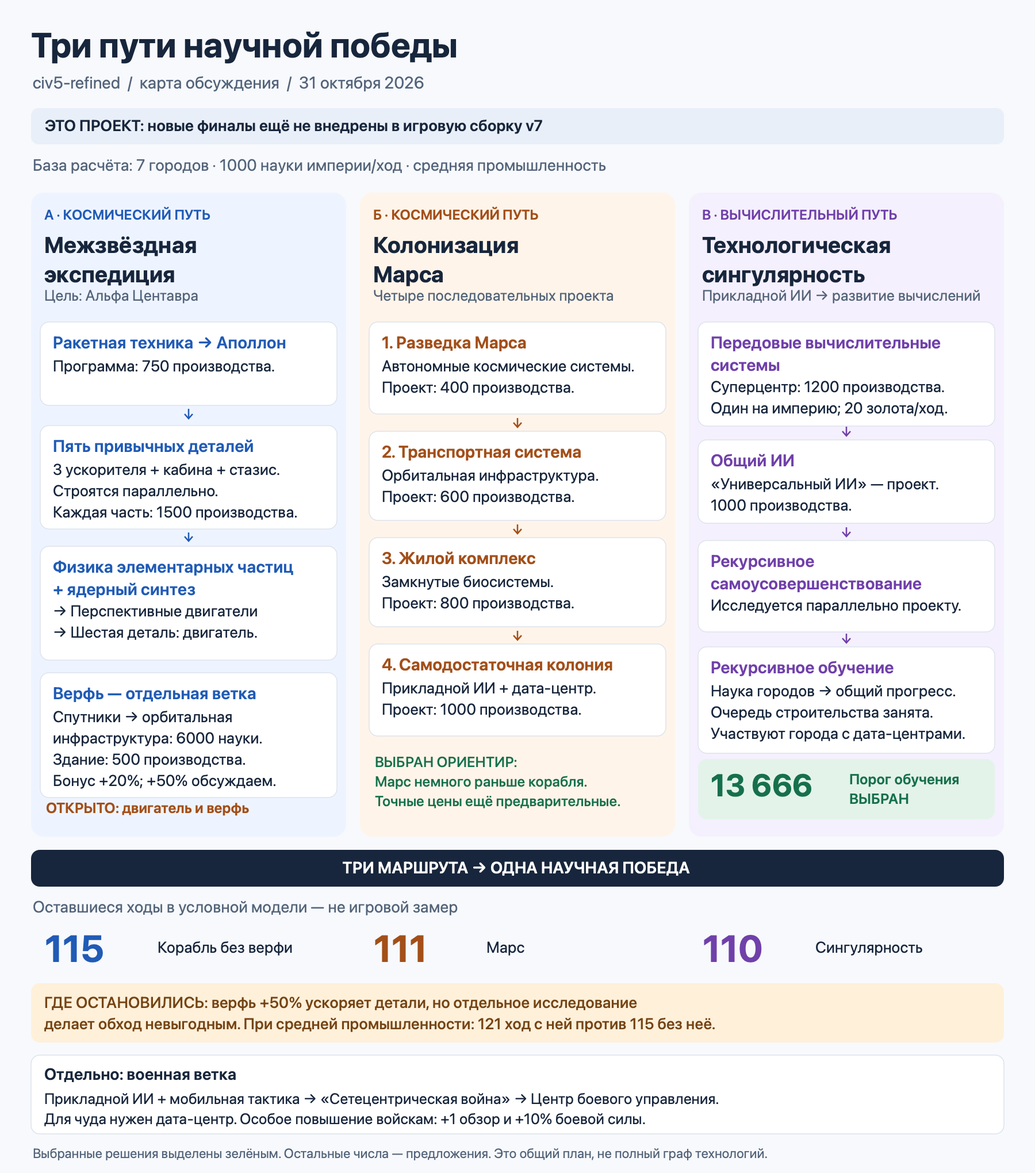
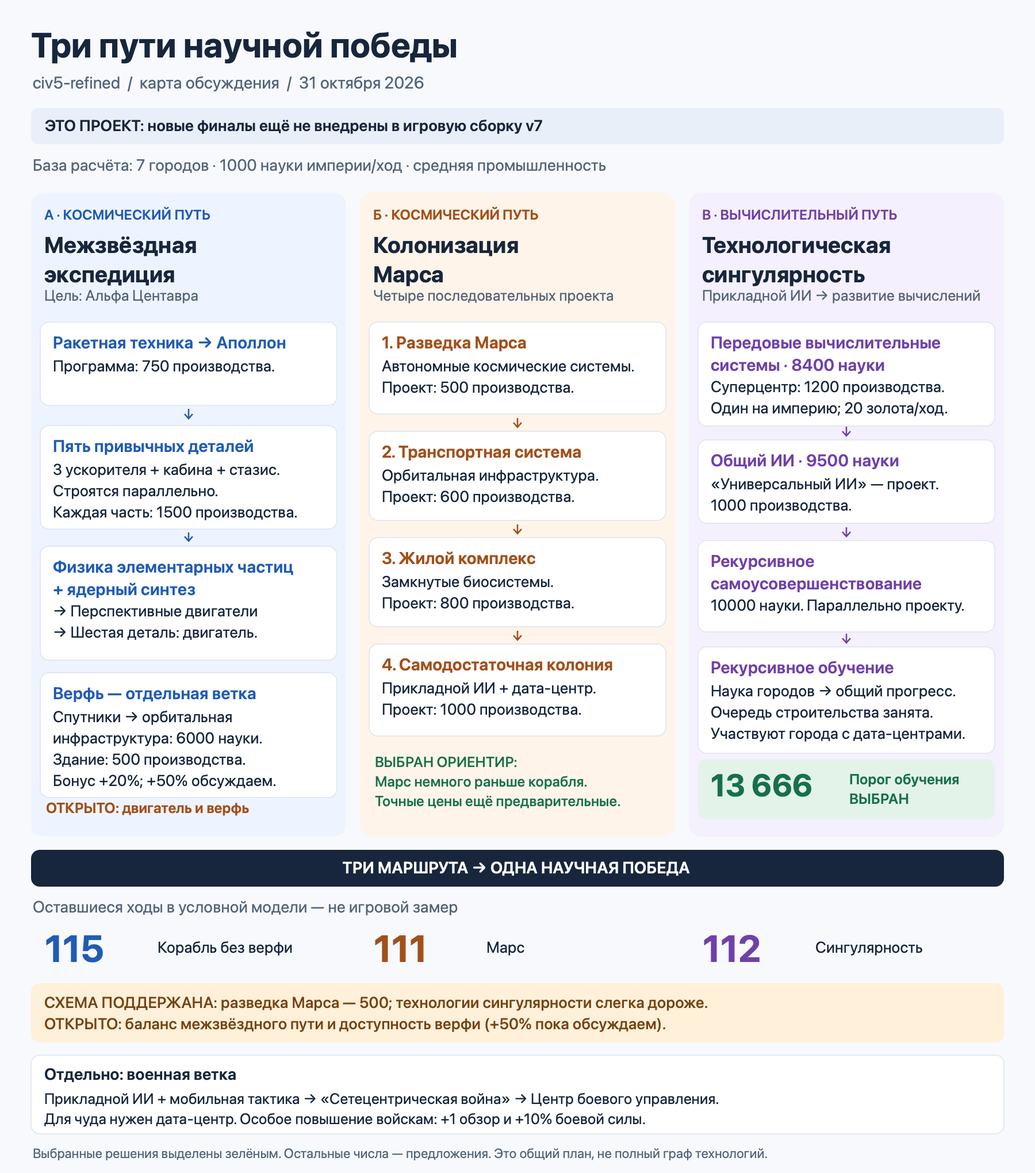
docs: refine Mars reconnaissance and singularity research costs

diff --git a/dev-utils/victory-overview.swift b/dev-utils/victory-overview.swift
@@ -86,7 +86,7 @@ card(0, 1170, 217, "Верфь — отдельная ветка", "Спутни
 text("ОТКРЫТО: двигатель и верфь", columns[0] + 26, 1390, col - 52, 65,
      size: 25, weight: .semibold, tint: orange)
 
-card(1, 560, 160, "1. Разведка Марса", "Автономные космические системы.\nПроект: 400 производства.", tint: orange)
+card(1, 560, 160, "1. Разведка Марса", "Автономные космические системы.\nПроект: 500 производства.", tint: orange)
 arrow(columns[1] + col / 2, 727, 743, orange)
 card(1, 750, 155, "2. Транспортная система", "Орбитальная инфраструктура.\nПроект: 600 производства.", tint: orange)
 arrow(columns[1] + col / 2, 912, 928, orange)
@@ -96,11 +96,11 @@ card(1, 1120, 160, "4. Самодостаточная колония", "Прик
 text("ВЫБРАН ОРИЕНТИР:\nМарс немного раньше корабля.\nТочные цены ещё предварительные.", columns[1] + 26, 1310, col - 52, 120,
      size: 25, weight: .medium, tint: green)
 
-card(2, 560, 181, "Передовые вычислительные\nсистемы", "Суперцентр: 1200 производства.\nОдин на империю; 20 золота/ход.", titleHeight: 76, tint: purple)
+card(2, 560, 181, "Передовые вычислительные\nсистемы · 8400 науки", "Суперцентр: 1200 производства.\nОдин на империю; 20 золота/ход.", titleHeight: 76, tint: purple)
 arrow(columns[2] + col / 2, 742, 758, purple)
-card(2, 765, 145, "Общий ИИ", "«Универсальный ИИ» — проект.\n1000 производства.", tint: purple)
+card(2, 765, 145, "Общий ИИ · 9500 науки", "«Универсальный ИИ» — проект.\n1000 производства.", tint: purple)
 arrow(columns[2] + col / 2, 917, 933, purple)
-card(2, 940, 159, "Рекурсивное\nсамоусовершенствование", "Исследуется параллельно проекту.", titleHeight: 76, tint: purple)
+card(2, 940, 159, "Рекурсивное\nсамоусовершенствование", "10000 науки. Параллельно проекту.", titleHeight: 76, tint: purple)
 arrow(columns[2] + col / 2, 1102, 1118, purple)
 card(2, 1125, 185, "Рекурсивное обучение", "Наука городов → общий прогресс.\nОчередь строительства занята.\nУчаствуют города с дата-центрами.", tint: purple)
 rounded(columns[2] + 16, 1320, col - 32, 105, color(0xE3F3EA), radius: 15)
@@ -111,14 +111,14 @@ rounded(54, 1478, 1692, 64, color(0x17263C), radius: 15)
 text("ТРИ МАРШРУТА → ОДНА НАУЧНАЯ ПОБЕДА", 78, 1492, 1640, 40,
      size: 28, weight: .semibold, tint: .white, align: .center)
 text("Оставшиеся ходы в условной модели — не игровой замер", 57, 1560, 1680, 42, size: 28, tint: muted)
-for (i, value) in ["115", "111", "110"].enumerated() {
+for (i, value) in ["115", "111", "112"].enumerated() {
     text(value, columns[i] + 24, 1610, 190, 83, size: 65, weight: .bold, tint: accents[i])
 }
 text("Корабль без верфи", columns[0] + 220, 1631, 315, 42, size: 27)
 text("Марс", columns[1] + 220, 1631, 315, 42, size: 27)
 text("Сингулярность", columns[2] + 220, 1631, 315, 42, size: 27)
 rounded(54, 1710, 1692, 103, color(0xFFF0DA), radius: 15)
-text("ГДЕ ОСТАНОВИЛИСЬ: верфь +50% ускоряет детали, но отдельное исследование\nделает обход невыгодным. При средней промышленности: 121 ход с ней против 115 без неё.",
+text("СХЕМА ПОДДЕРЖАНА: разведка Марса — 500; технологии сингулярности слегка дороже.\nОТКРЫТО: баланс межзвёздного пути и доступность верфи (+50% пока обсуждаем).",
      77, 1727, 1646, 77, size: 27, weight: .medium, tint: color(0x754414))
 
 rounded(54, 1835, 1692, 137, .white, border: color(0xDDE4ED), radius: 15)

diff --git a/dev-utils/victory_timing.py b/dev-utils/victory_timing.py
@@ -22,9 +22,9 @@ PROPOSED = {
     'AUTONOMOUS': (9500, ['ROBOTICS', 'SATELLITES']),
     'BIOTECH': (8800, ['ECOLOGY', 'PENICILIN']),
     'BIOSYSTEMS': (11000, ['BIOTECH']),
-    'ADVANCED_COMPUTING': (7700, ['REFINED_AI']),
-    'GENERAL_AI': (8800, ['ADVANCED_COMPUTING']),
-    'RECURSIVE': (9500, ['GENERAL_AI']),
+    'ADVANCED_COMPUTING': (8400, ['REFINED_AI']),
+    'GENERAL_AI': (9500, ['ADVANCED_COMPUTING']),
+    'RECURSIVE': (10000, ['GENERAL_AI']),
 }
 for key, (cost, parents) in PROPOSED.items():
     COST[key], PARENTS[key] = cost, parents
@@ -44,7 +44,7 @@ def research_cost(tech, city_count):
 
 
 MARS_COSTS = (900, 1400, 1800, 2400)
-TRAINING_GOAL = 13666  # User-selected symbolic goal; technology prices unchanged.
+TRAINING_GOAL = 13666  # User-selected symbolic final-learning goal.
 
 
 def orders(targets):
@@ -202,7 +202,7 @@ def singularity(science, production, training_goal=TRAINING_GOAL, city_count=7):
     Numbers are a proposal; all participating cities already have data centres.
     Production builds the centre/project, with +40%, automation +10pp and AI +10pp.
     Training uses ordinary local science from all city_count participating cities. The 13666
-    goal replaces the proposed 13800; research prices are unchanged.
+    goal replaces the proposed 13800; technology prices are separate parameters.
     """
     candidates = []
     for queue in orders(['ROBOTICS', 'TELECOM', 'RECURSIVE']):
@@ -236,7 +236,7 @@ def compare(tuned=False, profiles=None, city_count=7, yard_bonus=.2, require_yar
         COST.update(AUTONOMOUS=6000, ORBITAL=6000, BIOSYSTEMS=7000)
         PARENTS.update(AUTONOMOUS=['SATELLITES', 'COMPUTERS'],
                        ORBITAL=['SATELLITES'], BIOSYSTEMS=['ECOLOGY'])
-        MARS_COSTS = (400, 600, 800, 1000)
+        MARS_COSTS = (500, 600, 800, 1000)
     result = {}
     for profile, (science, production) in (normalized_profiles(city_count) if profiles is None else profiles).items():
         outcomes = {}

diff --git a/tests/victory_timing.py b/tests/victory_timing.py
@@ -13,12 +13,14 @@ assert model.research_cost('REFINED_MICROELECTRONICS', 7) == 10395
 assert model.research_cost('REFINED_AGRICULTURAL_MECHANIZATION', 7) == 3490
 assert model.research_factor(7) == 1.485
 assert model.TRAINING_GOAL == 13666
-assert [model.COST[k] for k in ('ADVANCED_COMPUTING', 'GENERAL_AI', 'RECURSIVE')] == [7700, 8800, 9500]
+assert [model.COST[k] for k in ('ADVANCED_COMPUTING', 'GENERAL_AI', 'RECURSIVE')] == [8400, 9500, 10000]
+for before, after in zip((7700, 8800, 9500), (8400, 9500, 10000)):
+    assert 1.05 <= after / before <= 1.10 and after % 100 == 0
 
-# V2 reference: seven cities, science=1000, symbolic final goal 13666; tech prices unchanged.
-reference = {'s1000_plow': (120, 117, 112),
-             's1000_pnormal': (115, 111, 110),
-             's1000_phigh': (112, 107, 110)}
+# V2 reference: seven cities, science=1000, symbolic final goal 13666; rounded research increases within 5-10%.
+reference = {'s1000_plow': (120, 117, 113),
+             's1000_pnormal': (115, 111, 112),
+             's1000_phigh': (112, 107, 112)}
 for count in (6, 7, 8):
     profiles = model.normalized_profiles(count)
     outcomes = model.compare(tuned=True, profiles=profiles, city_count=count)
@@ -41,6 +43,8 @@ for count in (6, 7, 8):
                 assert math.isclose(result['training_rate'], sum(result['participating_city_science']))
         if count == 7 and profile in reference:
             assert tuple(routes[r]['turn'] for r in ('alpha', 'mars', 'singularity')) == reference[profile]
+
+assert model.MARS_COSTS == (500, 600, 800, 1000)
 
 # More factories can change preparation, but cannot directly change training speed.
 slow = model.singularity(1000, [60, 45, 35, 24, 19, 14, 10], city_count=7)

diff --git a/docs/victory-paths.md b/docs/victory-paths.md
@@ -4,7 +4,7 @@
 
 Схема обсуждения на 31 октября 2026 года: выбранные решения выделены зелёным, открытые вопросы — янтарным. Это общий план, не полный граф предпосылок. Изображение и подробные разделы следует обновлять вместе при изменении концепции.
 
-Обсуждение 30 октября 2026 года. Это проект следующего прохода дерева, **не реализация в v7**. Пользователь задал два космических направления, предложил третье направление — технологическую сингулярность — и военное чудо. Ориентир космических путей: **Марс должен давать победу немного раньше межзвёздной экспедиции**. Приведённые ниже цены и конкретные зависимости выбраны агентом для расчёта; они остаются предложением. Игровых замеров нет.
+Обсуждение 30 октября 2026 года. Это проект следующего прохода дерева, **не реализация в v7**. Пользователь задал два космических направления, предложил третье направление — технологическую сингулярность — и военное чудо. Ориентир космических путей: **Марс должен давать победу немного раньше межзвёздной экспедиции**. Общая схема поддержана пользователем 31 октября; разведка Марса уточнена до 500 производства, цены трёх технологий сингулярности выбраны агентом в делегированном диапазоне +5–10%. Числа остаются стартовым проектным балансом. Игровых замеров нет.
 
 ## Актуальная расчётная база v2 — после проверки модели
 
@@ -18,7 +18,7 @@
 
 Текущие неизменные условия: стандартные карта и скорость, один игрок в команде, 7 обычных городов, ранее максимальное учитываемое число городов тоже 7. В каждом уже есть дата-центр, лаборатория и фабрика. Все семь могут строить, все семь могут участвовать в обучении. Наука — **суммарный доход империи**, не доход одного города. До национального центра она условно распределена поровну; исходные городские научные модификаторы +125%. Приобретение уже существующей инфраструктуры не включено в оставшийся путь. Изучена одна и та же часть текущего дерева до колонки 15 включительно; космических проектов, верфей, космических заводов и национального суперкомпьютерного центра ещё нет.
 
-После сравнения удорожания исследований пользователь предпочёл настраивать стоимость финального проекта и выбрал символический порог **13 666** вместо 12000 (примерно +13,9%). Это принятый стартовый параметр проекта, не проверенный игровой баланс. Речь о «Рекурсивном обучении»: центр остаётся 1200 производства, «Универсальный ИИ» — 1000, три исследования — 7700/8800/9500 науки. Повышение научных цен на 10% или 20% не принято и с новым порогом не складывается.
+После сравнения пользователь выбрал символический порог финального обучения **13 666** вместо 12000. Затем 31 октября поддержал общую схему и уточнил два параметра: проект разведки Марса — **500 производства вместо 400**; три технологии сингулярности — немного дороже, на 5–10%, с округлёнными числами. В делегированном диапазоне выбраны **8400 / 9500 / 10000 науки** вместо 7700 / 8800 / 9500: +9,09% / +7,95% / +5,26%. Центр остаётся 1200 производства, «Универсальный ИИ» — 1000, финальный порог — 13666. Это стартовый проектный баланс, не результат игровых проб. Старые варианты с увеличением исследований на 10% и 20% отдельно не применяются.
 
 Для исследования сначала применяется целочисленный множитель карты, затем городской штраф с округлением вверх; в расчёте нет скидок за известных соседей, особых способностей, институтов и прочих персональных поправок. Бонусы микроэлектроники и ИИ зависят от семи центров/лабораторий. Нельзя добавить число городов только в штраф, оставив прежние четыре бонусных здания.
 
@@ -34,15 +34,15 @@
 
 | Наука империи/ход | Промышленность | Межзвёздная | Марс | Сингулярность |
 | ---: | --- | ---: | ---: | ---: |
-| 800 | Слабая | 145 | 142 | **135** |
-| 800 | Средняя | 140 | **134** | **134** |
-| 800 | Сильная | 137 | **130** | 134 |
-| 1000 | Слабая | 120 | 117 | **112** |
-| 1000 | Средняя | 115 | 111 | **110** |
-| 1000 | Сильная | 112 | **107** | 110 |
+| 800 | Слабая | 145 | 142 | **137** |
+| 800 | Средняя | 140 | **134** | 137 |
+| 800 | Сильная | 137 | **130** | 137 |
+| 1000 | Слабая | 120 | 117 | **113** |
+| 1000 | Средняя | 115 | **111** | 112 |
+| 1000 | Сильная | 112 | **107** | 112 |
 | 1200 | Слабая | 103 | 99 | **98** |
-| 1200 | Средняя | 98 | 95 | **93** |
-| 1200 | Сильная | 95 | **92** | 93 |
+| 1200 | Средняя | 98 | **95** | **95** |
+| 1200 | Сильная | 95 | **92** | 95 |
 
 800 и 1200 — отклонения на 20% от указанного пользователем ориентира, не утверждённые границы слабого/сильного научного потенциала. Все числа — оставшиеся ходы из общей поздней позиции. Это фиксированная экономика с учётом новых технологических бонусов, без роста населения и разовых ускорителей; нельзя трактовать 108 ходов как измеренную длительность реального финала.
 
@@ -50,9 +50,9 @@
 
 | Городов | Множитель стоимости исследований | Межзвёздная | Марс | Сингулярность |
 | ---: | ---: | ---: | ---: | ---: |
-| 6 | 1,430 | 112 | 109 | 107 |
-| 7 | 1,485 | 115 | 111 | 110 |
-| 8 | 1,540 | 118 | 114 | 112 |
+| 6 | 1,430 | 112 | 109 | 109 |
+| 7 | 1,485 | 115 | 111 | 112 |
+| 8 | 1,540 | 118 | 114 | 114 |
 
 Текущая модель всё ещё не даёт преимущество кораблю из нейтральной позиции. Это признак неготового баланса, а не причина незаметно сокращать цену его ветки. Разницу в один ход нельзя считать устойчивым преимуществом. Поиск очередей ограничен перестановками основных целей и жадным назначением городов, не доказывает глобальный оптимум. Производство заказа фиксируется в момент начала, производственное переполнение не моделируется; покупка частей, инженеры, Хаббл, великие учёные и соглашения исключены.
 
@@ -113,12 +113,12 @@
 
 | Проект | Открытие | Исходная предварительная цена пользователя | Кандидат агента |
 | --- | --- | ---: | ---: |
-| Автоматическая разведка Марса | Автономные космические системы | 900 | 400 |
+| Автоматическая разведка Марса | Автономные космические системы | 900 | 500 |
 | Орбитальная транспортная система | Орбитальная инфраструктура + разведка | 1400 | 600 |
 | Марсианский жилой комплекс | Замкнутые биосистемы + транспортная система | 1800 | 800 |
 | Самодостаточная колония | Прикладной ИИ + предыдущие проекты; дата-центр в городе | 2400 | 1000 |
 
-Цены — производство на стандартной скорости. Изменение предварительных цен и перенос ИИ на финальное условие — **явные предложения по балансу и структуре**, а не уже согласованные мелочи реализации. Причина: 6500 последовательного производства вместе с поздним началом давали более медленную победу во всех трёх сценариях. Кандидат снижает сумму до 2800 и позволяет подготовить первые три этапа до ИИ. В сбалансированном примере они готовы на ходах 27, 36 и 42; ИИ приходит на 83-м, колония строится на ходах 84–90.
+Цены — производство на стандартной скорости, сумма четырёх проектов — **2900**. Общая схема поддержана пользователем 31 октября; разведка прямо уточнена с 400 до 500. Это не поручение внедрить маршрут в сборку. Раннюю подготовку и перенос ИИ на финальное условие агент предложил, чтобы последовательные проекты не стали безусловно медленнее корабля. В текущем базовом примере на 7 городах разведка готова на 87-м ходу, транспорт — на 95-м, жилой комплекс — на 104-м, колония — на 111-м. Дополнительные 100 производства разведки не сдвинули финал: ожидание последующих исследований поглотило задержку.
 
 ## Архив: первоначальные сравнения по ходам
 
@@ -160,14 +160,14 @@
 
 | Объект | Требования | Цена / эффект |
 | --- | --- | --- |
-| Передовые вычислительные системы | Прикладной ИИ | 7700 науки |
+| Передовые вычислительные системы | Прикладной ИИ | 8400 науки |
 | Суперкомпьютерный центр | Передовые вычислительные системы; дата-центр в городе | 1200 производства; 20 золота/ход; +10 науки и +25% науки **города** |
-| Общий искусственный интеллект | Передовые вычислительные системы | 8800 науки |
+| Общий искусственный интеллект | Передовые вычислительные системы | 9500 науки |
 | Универсальный ИИ | Общий ИИ; построенный суперкомпьютерный центр | Национальный проект, 1000 производства, один раз |
-| Рекурсивное самоусовершенствование | Общий ИИ | 9500 науки |
+| Рекурсивное самоусовершенствование | Общий ИИ | 10000 науки |
 | Рекурсивное обучение | Самоусовершенствование + завершённый Универсальный ИИ + действующий суперкомпьютерный центр; дата-центр в участвующем городе | Городской процесс; кандидат: 1 единица обычной науки города за ход = 1 единица прогресса; выбранный стартовый порог 13666 на стандартной скорости |
 
-Пользователь поддержал научный вклад и выбрал стартовый символический порог **13666** вместо 12000. Остальные числа таблицы и коэффициент 1:1 остаются гипотезами агента. Прежние 3000 относились к производственной версии и не переносятся автоматически в другую шкалу. Суперкомпьютерный центр — один национальный объект, не обязательное здание в каждом городе. Дополнительного требования дата-центра во всех городах нет. Обычные дата-центры сохраняют цену 500 и содержание 4 золота; специальной надбавки к их содержанию или платы за единицу обучения не вводится. Центр за 20 золота в пять раз дороже дата-центра по содержанию; +25% — городские процентные пункты, не модификатор науки империи. Его собственная прибавка к науке учитывается при исследовании следующих ступеней.
+Пользователь поддержал научный вклад и выбрал стартовый символический порог **13666** вместо 12000. Общая схема поддержана 31 октября; три цены исследований округлены агентом в разрешённом диапазоне +5–10%. Остальные числа и коэффициент 1:1 сохраняют статус стартового проектного баланса. Прежние 3000 относились к производственной версии и не переносятся автоматически в другую шкалу. Суперкомпьютерный центр — один национальный объект, не обязательное здание в каждом городе. Дополнительного требования дата-центра во всех городах нет. Обычные дата-центры сохраняют цену 500 и содержание 4 золота; специальной надбавки к их содержанию или платы за единицу обучения не вводится. Центр за 20 золота в пять раз дороже дата-центра по содержанию; +25% — городские процентные пункты, не модификатор науки империи. Его собственная прибавка к науке учитывается при исследовании следующих ступеней.
 
 Вычисления здесь означают только накопленный прогресс одного финального проекта. Их нельзя хранить для других задач, обменивать или тратить; отдельной валюты и нового экономического контура нет. При выбранном процессе производственная очередь занята обучением: здания, юниты и обычные проекты в этом городе не строятся, складируемого производства от процесса нет. Размер вклада не зависит от молотков города. Обычная наука города продолжает поступать в исследование и одновременно задаёт скорость обучения; процесс не создаёт дополнительную науку или золото. Учитывается местная наука после городских бонусов; одноразовые награды великих учёных, соглашения и другие внегородские поступления напрямую прогресс не увеличивают. Это предложенное агентом уточнение учёта. Научные бонусы дата-центров и ИИ полезны обучению; автоматизация и фабрики помогают подготовить национальный центр и проект, но не ускоряют сам процесс.
 

diff --git a/spec.md b/spec.md
@@ -249,13 +249,13 @@ SQL описывает технологии, здания и ресурсы. Lua
 
 Пользователь предложил сохранить межзвёздный корабль с шестью деталями, добавить орбитальную инфраструктуру/верфь (+20% производства частей) и отдельные перспективные двигатели после физики элементарных частиц и ядерного синтеза, перенеся только двигатель. Название физики элементарных частиц сохраняется. Второе направление — четыре последовательных марсианских проекта, завершающиеся обычной научной победой, с ролью ИИ, робототехники и биотехнологий. Уточнён целевой ориентир пользователя: **Марс должен достигать победы немного быстрее межзвёздной экспедиции**. Сравнивать оставшиеся ходы с учётом одновременных исследований/строительства, не только суммарную стоимость науки.
 
-Это обсуждение нового направления пересматривает прежнее ограничение на расширение условий научной победы, но **не является поручением внедрить всё в сборку**. Текущее поведение v7 и старые цены пока сохранены. Структура, параметры кандидата агента, модель и ограничения приведены в [docs/victory-paths.md](docs/victory-paths.md). Прежние таблицы на четырёх городах имеют статус архива после обнаружения неверной формулы городского штрафа. Актуальная основа — модель расчёта v2 на 6–8 городов; это не версия игрового мода. Баланс не согласован и не измерен в игре. Цены проектов 400/600/800/1000 и ранняя подготовка остаются предложениями агента.
+Это обсуждение нового направления пересматривает прежнее ограничение на расширение условий научной победы, но **не является поручением внедрить всё в сборку**. Текущее поведение v7 и старые цены пока сохранены. Структура, параметры кандидата агента, модель и ограничения приведены в [docs/victory-paths.md](docs/victory-paths.md). Прежние таблицы на четырёх городах имеют статус архива после обнаружения неверной формулы городского штрафа. Актуальная основа — модель расчёта v2 на 6–8 городов; это не версия игрового мода. Баланс не согласован и не измерен в игре. На 31 октября пользователь поддержал общую схему и уточнил разведку Марса до 500; стартовые цены проектов теперь 500/600/800/1000. Игровая реализация не поручена.
 
-Пользователь предложил третий маршрут — технологическую сингулярность. Победный рубеж — гипотетическое рекурсивное самоусовершенствование, не обычный сильный или общий ИИ. Последовательность: передовые вычислительные системы и национальный суперкомпьютерный центр → общий ИИ и национальный проект «Универсальный ИИ» → рекурсивное самоусовершенствование → городской процесс «Рекурсивное обучение» в городах с дата-центрами. После обсуждения баланса пользователь поддержал рабочую концепцию: **скорость обучения определяется местной наукой участвующего города, а процесс занимает его производственную очередь**. Это заменяет первоначальное суммирование производства, чтобы вычислительный финал имел собственную научную основу. Обычная наука продолжает идти в исследования; предложение агента по учёту исключает прямой вклад разовых/внегородских научных наград. Обсуждение не является поручением игровой реализации. «Вычисления» — прогресс единственного проекта, без отдельной валюты. Кандидат агента: исследования 7700/8800/9500; центр 1200 производства, 20 золота содержания, +10 науки и +25% науки города; проект 1000. Для научной шкалы агент предложил коэффициент 1:1 и порог 12000. После сравнения пользователь предпочёл удорожать финальный проект вместо технологий и уточнил символический порог **13666** вместо 12000 (примерно +13,9%) как стартовый баланс. Исследования остаются 7700/8800/9500, центр — 1200 производства, «Универсальный ИИ» — 1000. Остальные числа и правила потери инфраструктуры остаются гипотезами; игровая реализация не поручена. Подробности и технические ограничения — в профильном документе.
+Пользователь предложил третий маршрут — технологическую сингулярность. Победный рубеж — гипотетическое рекурсивное самоусовершенствование, не обычный сильный или общий ИИ. Последовательность: передовые вычислительные системы и национальный суперкомпьютерный центр → общий ИИ и национальный проект «Универсальный ИИ» → рекурсивное самоусовершенствование → городской процесс «Рекурсивное обучение» в городах с дата-центрами. После обсуждения баланса пользователь поддержал рабочую концепцию: **скорость обучения определяется местной наукой участвующего города, а процесс занимает его производственную очередь**. Это заменяет первоначальное суммирование производства, чтобы вычислительный финал имел собственную научную основу. Обычная наука продолжает идти в исследования; предложение агента по учёту исключает прямой вклад разовых/внегородских научных наград. Обсуждение не является поручением игровой реализации. «Вычисления» — прогресс единственного проекта, без отдельной валюты. Стартовые исследования после уточнения 31 октября: 8400/9500/10000; центр 1200 производства, 20 золота содержания, +10 науки и +25% науки города; проект 1000. Для научной шкалы агент предложил коэффициент 1:1 и порог 12000. После сравнения пользователь предпочёл удорожать финальный проект вместо технологий и уточнил символический порог **13666** вместо 12000 (примерно +13,9%) как стартовый баланс. Затем 31 октября пользователь разрешил небольшое удорожание трёх технологий на 5–10% с округлёнными числами. Агент выбрал 8400/9500/10000 вместо 7700/8800/9500 (+9,09%/+7,95%/+5,26%). Центр остаётся 1200 производства, «Универсальный ИИ» — 1000, порог — 13666. Остальные числа и правила потери инфраструктуры остаются гипотезами; игровая реализация не поручена. Подробности и технические ограничения — в профильном документе.
 
 Уточнение пользователя: около **1000 науки/ход у империи из 6–8 городов со средне-высоким научным потенциалом**. Аудит выявил две ошибки: прежние четыре города не соответствовали этому ориентиру; удорожание исследований считалось по N−1 вместо всех учитываемых городов. В проверенных исходниках BNW коэффициент при стандартной карте из снимка — 1,10 × (1 + 0,05 × N), для 7 городов 1,485. Старые значения воспроизводятся старым кодом, но не являются корректной базой баланса.
 
-Модель расчёта v2 принимает число городов явно (по умолчанию 7; проверены 6 и 8), учитывает столько же научных зданий и участников обучения и даёт всем городам производственные возможности. Наука — сумма империи; распределение условно равномерное. Цены исследований и космических путей сохранены; порог обучения установлен пользователем в 13666. Производство дополнительных городов — явная гипотеза. При 7 городах и 1000 науки: слабая промышленность — корабль 120 / Марс 117 / сингулярность 112 ходов; средняя — 115/111/110; сильная — 112/107/110. При средней промышленности и той же суммарной науке 6 городов дают 112/109/107, 8 — 118/114/112. Это условная модель с фиксированным населением, без разовых ускорителей; не игровой замер и не готовый баланс. Полная таблица, комплектация, формула и архив сверки — в профильном документе. Прежние 88/67/112 и 87/75/106 относятся только к архивным версиям модели.
+Модель расчёта v2 принимает число городов явно (по умолчанию 7; проверены 6 и 8), учитывает столько же научных зданий и участников обучения и даёт всем городам производственные возможности. Наука — сумма империи; распределение условно равномерное. После уточнения 31 октября разведка Марса стоит 500, три технологии сингулярности — 8400/9500/10000; остальные условия сохранены. Порог обучения — 13666. Производство дополнительных городов — явная гипотеза. При 7 городах и 1000 науки: слабая промышленность — корабль 120 / Марс 117 / сингулярность 113 ходов; средняя — 115/111/112; сильная — 112/107/112. При средней промышленности и той же суммарной науке 6 городов дают 112/109/109, 8 — 118/114/114. Это условная модель с фиксированным населением, без разовых ускорителей; не игровой замер и не готовый баланс. Полная таблица, комплектация, формула и архив сверки — в профильном документе. Прежние 88/67/112 и 87/75/106 относятся только к архивным версиям модели.
 
 Пользователь предложил проверить орбитальную верфь с +50% вместо +20%. При прежних цене 500 и отдельной технологии за 6000 модель на 7 городах и 1000 науки даёт кораблю с реально использованной верфью +50% 125/121/119 ходов при слабой/средней/сильной промышленности; без неё — 120/115/112. Если технология уже изучена в исходной позиции, средний профиль получает 113 вместо 115. Усиление бонуса пока не принято; исследовательский обход остаётся главным препятствием. В модели добавлена проверка фактического применения верфи к детали и отдельные параметры эксперимента, чтобы разрешение стратегии не выдавалось за использование бонуса. Полная сверка — в профильном документе.
 
